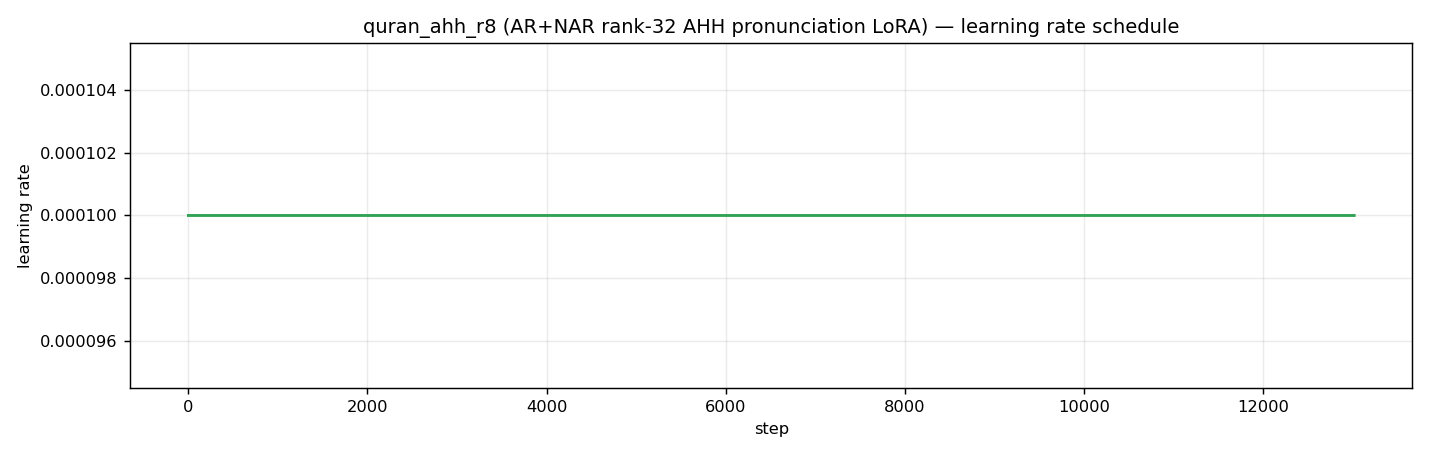
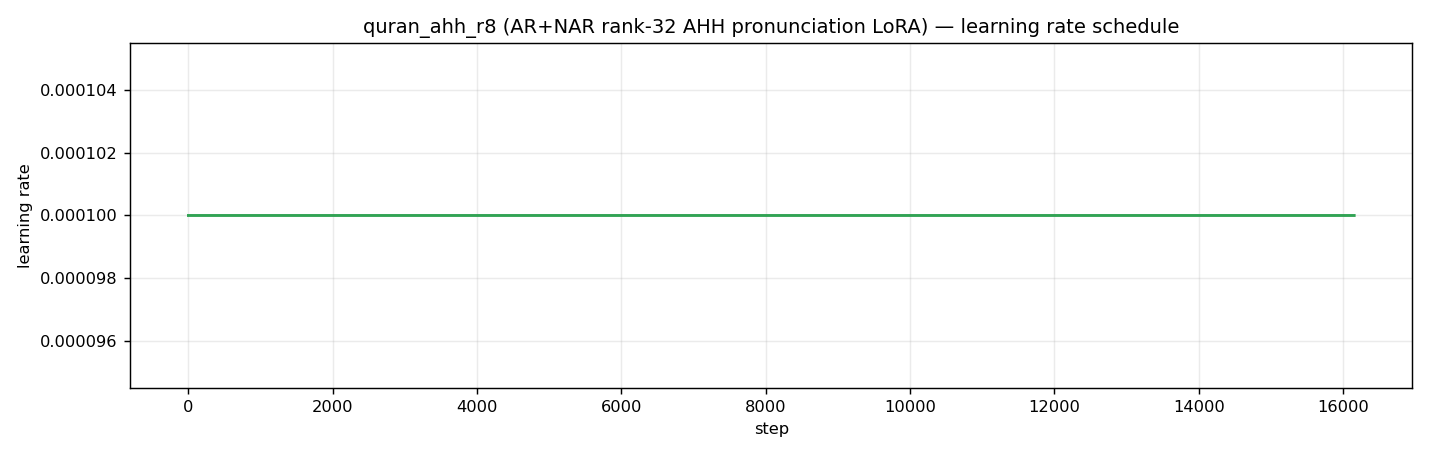
TRAINING_ANALYSIS: rank-32 snapshot @ step 16158/28467 (56.8%); prep c10500 vs c16500 T4 probe

diff --git a/TRAINING_ANALYSIS/quran_ahh_r8_rank32/ANALYSIS.md b/TRAINING_ANALYSIS/quran_ahh_r8_rank32/ANALYSIS.md
@@ -1,7 +1,7 @@
 # Training analysis — `quran_ahh_r8` **revised** (AR+NAR, rank 32, no KL)
 
-**LIVE SNAPSHOT** — captured **2026-10-05 ~17:34 UTC (20:34 Bahrain)** at **step 13,017 / 28,467
-(45.7%)**. The run is still training (pid 16301, started `2026-10-05T12:35:11`); this is *not* a
+**LIVE SNAPSHOT** — captured **2026-10-05 ~18:46 UTC (21:46 Bahrain)** at **step 16,158 / 28,467
+(56.8%)**. The run is still training (pid 16301, started `2026-10-05T12:35:11`); this is *not* a
 final analysis. Charts produced by the parametrized `TRAINING_ANALYSIS/generate_plots.py`:
 
 ```bash
@@ -18,13 +18,12 @@ python TRAINING_ANALYSIS/generate_plots.py \
 > **This directory is the revised rank-32 run.** The prior **AR-only, rank-8** run of the same
 > name — completed 2026-10-05 07:39 UTC — is analyzed at
 > [`../quran_ahh_r8/ANALYSIS.md`](../quran_ahh_r8/ANALYSIS.md). The run name `quran_ahh_r8` is a
-> **misnomer (it is rank 32)**; a rename is **deferred until training completes** (renaming
+> **misnomer (it is rank 32)**; the rename is **deferred until training completes** (renaming
 > mid-run breaks resume) — see `agent_notes/current.md`. Not to be confused with the archived
 > rank-8 `…/archive/quran_ahh_r8_rank8_aronly/`.
 
-> This is **training loss only** — no in-training validation and **no samples**
-> (`train.disable_sampling: true`), so adapter quality must be judged offline from the
-> checkpoints. A first listening verdict (T4 probe, c4500/c7500) is recorded below.
+> Training-loss only — no in-training validation, **no samples** (`disable_sampling: true`).
+> A first listening verdict (T4 probe c4500/c7500) is below.
 
 ## Run at a glance
 
@@ -34,14 +33,14 @@ python TRAINING_ANALYSIS/generate_plots.py \
 | Model | YuE2 3B int8 `convrot8`, flowmatch, batch 1, grad-accum 1 |
 | Dataset | `/content/quran_ahh_dataset/train` — **9,489 pairs** (AHH filtered, 3 reciters, single caption/clip, 50/50 simple/uthmani stratified); `steps: 28467` = **3 epochs** |
 | GPU | Colab **L4** (23,034 MiB) |
-| Caching | 9,489 clips on the banked `_latent_cache.tar` — pass completed **< 1 s** at launch (cache HIT, no re-encode) |
-| Steps done | **13,017 / 28,467 (45.7%)** at snapshot |
-| Step time | **median 1.249 s** (p10 1.216 / p90 1.742; max 5.804) → ~**0.73 steps/s** (0.75 recent) |
-| Save cadence | every **1500** steps (~34 min at current rate) |
-| Samples | **none** (`disable_sampling: true`) — grey verticals are checkpoint saves |
-| Checkpoints | `_000001500 … _000012000` (**8**) + `optimizer.pt` (step 12000) — local + GCS (verified); next save 13500 |
-| GPU (training window) | mem p50 **9,038** / peak **9,284** MiB of 23,034; util p50 **53 %**, p90 100 %; temp p50 77 / max 80 °C; power p50 66 / max 75 W (limit 72) |
-| ETA | **~345 min (5.8 h)** at the recent rate → completion ~**23:20 UTC / 02:20 Bahrain** |
+| Caching | banked `_latent_cache.tar` — launch pass **< 1 s** (cache HIT, no re-encode) |
+| Steps done | **16,158 / 28,467 (56.8%)** at snapshot |
+| Step time | **median 1.249 s** (p10 1.216 / p90 1.744; max 5.804) → ~**0.73 steps/s** (0.73 recent) |
+| Save cadence | every **1500** steps (~34 min) |
+| Samples | **none** — grey verticals are checkpoint saves |
+| Checkpoints | `_000001500 … _000015000` (**10**) + `optimizer.pt` (step 15000) — local + GCS (verified); next save = **16500** |
+| GPU (training window) | mem p50 **8,976** / peak **9,394** MiB of 23,034; util p50 **53 %**, p90 100 %; temp p50 77 / max 80 °C; power p50 66 / max 75 W (limit 72) |
+| ETA | **~280 min (4.7 h)** at the recent rate → completion ~**23:26 UTC / 02:26 Bahrain** |
 | Health | clean — no tracebacks/OOM; VRAM flat; steady ~34 min save cadence |
 
 ## Charts
@@ -54,81 +53,82 @@ python TRAINING_ANALYSIS/generate_plots.py \
 
 ## Loss trend (per 1,000-step bin)
 
-| steps | `loss/loss` | `loss/ar_ce` | `additional_model_loss` | residual (`loss/loss − ar_ce`) |
-|---|---|---|---|---|
-| 1–1000 | 4.8924 | 4.1625 | 4.1625 | 0.7299 |
-| 1001–2000 | 4.5615 | 3.8524 | 3.8524 | 0.7091 |
-| 2001–3000 | 4.4437 | 3.7499 | 3.7499 | 0.6938 |
-| 3001–4000 | 4.3674 | 3.6774 | 3.6774 | 0.6900 |
-| 4001–5000 | 4.3079 | 3.6310 | 3.6310 | 0.6769 |
-| 5001–6000 | 4.2735 | 3.5984 | 3.5984 | 0.6751 |
-| 6001–7000 | 4.2116 | 3.5472 | 3.5472 | 0.6644 |
-| 7001–8000 | 4.2126 | 3.5345 | 3.5345 | 0.6780 |
-| 8001–9000 | 4.1680 | 3.5015 | 3.5015 | 0.6665 |
-| 9001–10000 | 4.0953 | 3.4341 | 3.4341 | 0.6613 |
-| 10001–11000 | 4.0645 | 3.3996 | 3.3996 | 0.6649 |
-| 11001–12000 | 4.0479 | 3.3852 | 3.3852 | 0.6627 |
-| 12001–13000 | 4.0244 | 3.3674 | 3.3674 | 0.6571 |
-| 13001–13017 | 4.0246 | 3.3511 | 3.3511 | 0.6735 |
+| steps | `loss/loss` | `loss/ar_ce` | residual (`loss/loss − ar_ce`) |
+|---|---|---|---|
+| 1–1000 | 4.8924 | 4.1625 | 0.7299 |
+| 1001–2000 | 4.5615 | 3.8524 | 0.7091 |
+| 2001–3000 | 4.4437 | 3.7499 | 0.6938 |
+| 3001–4000 | 4.3674 | 3.6774 | 0.6900 |
+| 4001–5000 | 4.3079 | 3.6310 | 0.6769 |
+| 5001–6000 | 4.2735 | 3.5984 | 0.6751 |
+| 6001–7000 | 4.2116 | 3.5472 | 0.6644 |
+| 7001–8000 | 4.2126 | 3.5345 | 0.6780 |
+| 8001–9000 | 4.1680 | 3.5015 | 0.6665 |
+| 9001–10000 | 4.0953 | 3.4341 | 0.6613 |
+| 10001–11000 | 4.0645 | 3.3996 | 0.6649 |
+| 11001–12000 | 4.0479 | 3.3852 | 0.6627 |
+| 12001–13000 | 4.0244 | 3.3674 | 0.6571 |
+| 13001–14000 | 4.0316 | 3.3737 | 0.6578 |
+| 14001–15000 | 4.0225 | 3.3626 | 0.6598 |
+| 15001–16000 | **3.9897** | **3.3396** | 0.6502 |
+| 16001–16158 | 4.0200 | 3.3550 | 0.6650 |
 
-First-50 vs last-50 means (from `generate_plots.py`): `loss/loss` **5.8409 → 4.0334**
-(−1.807), `loss/ar_ce` **5.0275 → 3.3415** (−1.686), `additional_model_loss` identical,
-`learning_rate` constant 1e-4. `loss/loss` minimum **3.1630 @ step 12902**.
+First-50 vs last-50 means: `loss/loss` **5.8409 → 4.0739** (−1.767), `loss/ar_ce`
+**5.0275 → 3.3948** (−1.633), `additional_model_loss` identical. `loss/loss` minimum
+**3.1324 @ step 13684**.
+
+Per-checkpoint 500-step windows (`loss/loss` mean) — the "is later training better?" read:
+
+| from step | 10,500 | 12,000 | 13,500 | 15,000 |
+|---|---|---|---|---|
+| `loss/loss` (next 500) | 4.0672 | 4.0242 | 4.0221 | **4.0027** |
 
 ## Observations / flags
 
-1. **Only 4 metric keys** — `additional_model_loss`, `learning_rate`, `loss/ar_ce`, `loss/loss`.
-   **No `ar_kl`** (weight 0.0, correct) and **no separately-keyed NAR term**.
-2. **`additional_model_loss` is byte-identical to `loss/ar_ce`** — a duplicate label, not a second
-   loss. The NAR/flow term is only visible as the residual `loss/loss − ar_ce` ≈ **0.66**
-   (0.776 → 0.675 over the run), still falling. Both experts train, but the log gives no clean
-   separate read on the NAR.
-3. **`loss/ar_ce` keeps falling monotonically** across every bin (4.16 → 3.35) and has **not
-   plateaued** at 13k (last full bin 3.385 → 3.367).
-4. **`loss/loss` is AR-dominated** — do **not** read it as audio quality; the held-out free-run
-   eval is the only quality signal.
-5. **The L4 is not the bottleneck.** util p50 **53 %** (p90 100 %), ~9 GB of 23 GB —
-   data/CPU-bound; power saturates at the 72 W limit.
-6. **First 50 are warmup-inflated** (`loss/loss` ~5.84); the per-step series is noisy — trust the
-   bins. Occasional multi-second throughput spikes (max 5.80 s/step) align with the 1500-step saves.
+1. **Only 4 metric keys**; `additional_model_loss` is byte-identical to `loss/ar_ce` (a duplicate
+   label, not a second loss). The NAR/flow term is visible only as the residual
+   `loss/loss − ar_ce` ≈ **0.65–0.68** (0.776 → 0.674 over the run). Both experts train, but the
+   log gives no clean separate read on the NAR.
+2. **`loss/ar_ce` keeps drifting down** (4.16 → 3.34) with a small **wobble around 13k**
+   (12001–13000 3.3674 → 13001–14000 3.3737 → 15001–16000 3.3396) — noise, not a plateau; the
+   latest full bin is the lowest yet.
+3. **Later checkpoints do keep improving on loss** (4.0672 @10.5k → 4.0027 @15k, ~1.6% better) —
+   the basis for the planned **c10500 vs c16500 listen**.
+4. **`loss/loss` is AR-dominated** — not a quality metric; the held-out free-run is the signal.
+5. **The L4 is not the bottleneck.** util p50 **53 %** (p90 100 %), ~9 GB of 23 GB — data/CPU-bound;
+   power saturates at the 72 W limit.
+6. **First 50 are warmup-inflated** (~5.84) and the per-step series is noisy — trust the bins.
+   Occasional multi-second spikes (max 5.80 s/step) align with the 1500-step saves.
 
-## Listening verdict — first T4 probe (2026-10-05, user)
+## Listening verdict — round 1 (T4, c4500/c7500, 2026-10-05)
 
-Rendered **c4500** and **c7500** (real AR+NAR arms) on held-out 2:255, seed 20261004, both
-scripts; **4 WAVs** at `…/audiocpp_inference/out/20261005-154621_quran_pt_probe/` (mirrored to
-GCS 16:05Z). User listened (T4 since disconnected):
+`…/audiocpp_inference/out/20261005-154621_quran_pt_probe/`. All "sound like Alhusary — more or
+less"; **best = c7500_simple** (one mistake); **simple > uthmani**; **hard letters (ح، ع) much
+improved vs rank-8** but not solved. Genuine improvement; not a plateau.
 
-- **All tracks "sound like Alhusary — more or less"** (reciter-style voice; 3 reciters in the
-  data, no reciter in the caption, so some averaging is expected).
-- **Best: `c7500_simple`** (one mistake); **simple script beats uthmani** for both 4500 and 7500.
-- **Hard letters (ح، ع …) are no longer the problem they were in the rank-8 run** — the AR+NAR
-  revision moved articulation, not just prosody. Not fully correct yet.
+## Next — round 2 (T4, c10500 vs c16500)
 
-Signal: genuine improvement vs the rank-8 AR-only run, still improving at 7.5k → **not a
-plateau**; next probe planned around **step ~18000** (arrives ~22:28 Bahrain, ~19:28 UTC).
+Adapters already banked: `…/quran_ahh_r8_rank32/convert/{c4500,c7500,c10500}/`. Add **c16500**
+once it saves (convert on the L4) and run:
+`INFERENCE/quran_pt_probe.py --prefix quran_ahh_r8_rank32/convert --arms c10500,c16500`.
 
 ## Checkpoints (on disk + GCS)
 
-`/content/ai-toolkit/output/quran_ahh_r8/`: `quran_ahh_r8_000001500 … _000012000` (8 ×
-117,500,848 B ≈ 112 MiB) + `optimizer.pt` (119,807,781 B, step 12000) + `loss_log.db`.
-GCS mirror `…/quran_ahh_r8/output/` verified (all eight + optimizer + a `README.md` marker).
+`/content/ai-toolkit/output/quran_ahh_r8/`: `quran_ahh_r8_000001500 … _000015000` (10 ×
+117,500,848 B ≈ 112 MiB) + `optimizer.pt` (step 15000) + `loss_log.db`. GCS mirror verified
+(ten checkpoints + optimizer + a `README.md` marker).
 
 ## Caveats
 
 - **Mid-run snapshot** — re-run the command above for the final charts/bins.
-- **No validation split and no samples** (`disable_sampling: true`); the listening verdict above is
-  a small single-aya, single-listen read, not a blind/statistical eval. A human blind gate
-  (`ab-blind-eval`) is still required before any merge.
-- **Saved adapters are EMA weights** (`ema_config.use_ema: true`, decay 0.999).
-- Absolute loss is not comparable to the rank-8 run (different rank/scope/epoch count); only the
-  *shape* (monotone `ar_ce` down) is.
-- **Run name is a misnomer** (rank 32); rename is deferred to post-training.
+- **No validation split / no samples**; the listening read is single-aya, single-listen — a human
+  blind gate (`ab-blind-eval`) is still required before any merge.
+- **Saved adapters are EMA weights** (decay 0.999).
+- Absolute loss is not comparable to the rank-8 run (different rank/scope/epoch count).
+- **Run name is a misnomer** (rank 32); rename deferred to post-training.
 
 ## Next steps
 
-- Continue to **28,467** (~02:20 Bahrain if the VM stays up); regenerate charts at checkpoints.
-- **~step 18000**: convert that checkpoint to audio.cpp AR/NAR arms on the L4 and re-run the T4
-  probe (`INFERENCE/quran_pt_probe.py --prefix quran_ahh_r8_rank32/convert --arms c18000`).
-- If the NAR term matters to the verdict, add a dedicated NAR-loss log key (or inspect the
-  toolkit's metric emission) so it is no longer only a residual.
-- **Human blind gate** (`ab-blind-eval`) before any merge.
+- Continue to **28,467** (~02:26 Bahrain if the VM stays up).
+- **c10500 vs c16500 T4 probe** (round 2) — the immediate test.
+- Human blind gate (`ab-blind-eval`) before any merge.

diff --git a/agent_notes/current.md b/agent_notes/current.md
@@ -1,15 +1,17 @@
 # current
 
-## State @ 2026-10-05 ~17:40 UTC (20:40 Bahrain) — training LIVE; rename DEFERRED to post-training
+## State @ 2026-10-05 ~18:50 UTC (21:50 Bahrain) — training LIVE (56.8%); rename DEFERRED
 
 Branch `pron-lora-long-aya`. Run config `config/quran_ahh_r8.yml` = **AR+NAR, rank 32/32,
 `ar_kl_weight 0.0`, steps 28467 (3 epochs)** — authority; do not edit hyperparameters.
 The `r8` in the name is a **misnomer (it is rank 32)** — see "Deferred rename" below.
 
 - **Training running**: `run.py` pid **16301** (detached, started 12:35:11). Log
-  `/content/logs/train_quran_ahh.log`. At ~17:20 UTC step ~**12,311 / 28,467 (~43%)**;
-  8 checkpoints `_1500…_12000` + `optimizer.pt` + `loss_log.db`, all in GCS.
-- User runs until **~23:00 Bahrain (20:00 UTC)**; training won't finish tonight (~02:30 Bahrain).
+  `/content/logs/train_quran_ahh.log`. At ~18:46 UTC step ~**16,158 / 28,467 (56.8%)**;
+  **10** checkpoints `_1500…_15000` + `optimizer.pt` (step 15000) + `loss_log.db`, all in GCS.
+  Next save = **16,500** (~18:54 UTC / 21:54 Bahrain).
+- ETA to 28,467 ~**02:26 Bahrain**; user stops ~23:00 Bahrain. Live snapshot:
+  `TRAINING_ANALYSIS/quran_ahh_r8_rank32/ANALYSIS.md`.
 
 ## Resume next morning — fresh VM (name unchanged: `quran_ahh_r8`)
 
@@ -57,13 +59,30 @@ Then a docs-reconciler pass over the ~10 files referencing `quran_ahh_r8` (`docs
 `docs/README.md`, `SOURCE_OF_TRUTH.md`, `bootstrap/setup.sh`, `INFERENCE/*`, the two
 `TRAINING_ANALYSIS/` dirs) and rename `TRAINING_ANALYSIS/quran_ahh_r8_rank32/` -> `.../quran_ahh_r32/`.
 
-## T4 probe round 1 verdict (2026-10-05, user)
+## T4 probes
 
-c4500 + c7500 (real AR+NAR), held-out 2:255 both scripts:
-`…/audiocpp_inference/out/20261005-154621_quran_pt_probe/`. All "sound like Alhusary";
-**best = c7500_simple** (one mistake); **simple > uthmani**; **hard letters (ح، ع) much improved
-vs rank-8** but not solved. Not a plateau -> **next try ~step 18000** (convert on the L4 -> bank
-to `quran_ahh_r8_rank32/convert/` (or renamed) -> `INFERENCE/quran_pt_probe.py --arms c18000`).
+**Round 1 (done, 2026-10-05)** — c4500 + c7500 (real AR+NAR), held-out 2:255 both scripts:
+`…/audiocpp_inference/out/20261005-154621_quran_pt_probe/`. All "sound like Alhusary"; **best =
+c7500_simple** (one mistake); **simple > uthmani**; **hard letters (ح، ع) much improved vs
+rank-8** but not solved.
+
+**Round 2 (planned)** — **c10500 vs c16500** to test whether later training improves. `c10500` is
+already converted + banked (`…/quran_ahh_r8_rank32/convert/c10500/`). Once the **16500**
+checkpoint saves, convert + bank it (CPU, on the L4):
+```bash
+mkdir -p /content/converter/out && gcloud storage cp "$GCP_BACKUP_BASE/audiocpp_inference/converter/convert_aitoolkit_yue2_lora.py" /content/converter/out/
+python /content/converter/out/convert_aitoolkit_yue2_lora.py \
+  /content/ai-toolkit/output/quran_ahh_r8/quran_ahh_r8_000016500.safetensors \
+  --out-dir /content/conversion/quran_ahh_r8_rank32/c16500 --stem quran_ahh_r8
+gcloud storage rsync -r /content/conversion/quran_ahh_r8_rank32 "$GCP_BACKUP_BASE/quran_ahh_r8_rank32/convert"
+```
+Then, on a fresh T4 (`setup.sh --inference`), detached (~26 min for 4 tracks):
+```bash
+python INFERENCE/quran_pt_probe.py --prefix quran_ahh_r8_rank32/convert --arms c10500,c16500 --dry-run
+setsid nohup python INFERENCE/quran_pt_probe.py --prefix quran_ahh_r8_rank32/convert --arms c10500,c16500 \
+  > /content/logs/quran_pt_probe_r32.log 2>&1 & disown
+```
+Base (no-LoRA) reference: `…/out/20261005-072738_quran_pt_probe/base_*.wav`.
 
 ## Other open items
 - Human blind gate (`ab-blind-eval`) before any merge; `docs/PAUSE_RESUME.md` still uses v2 names.
